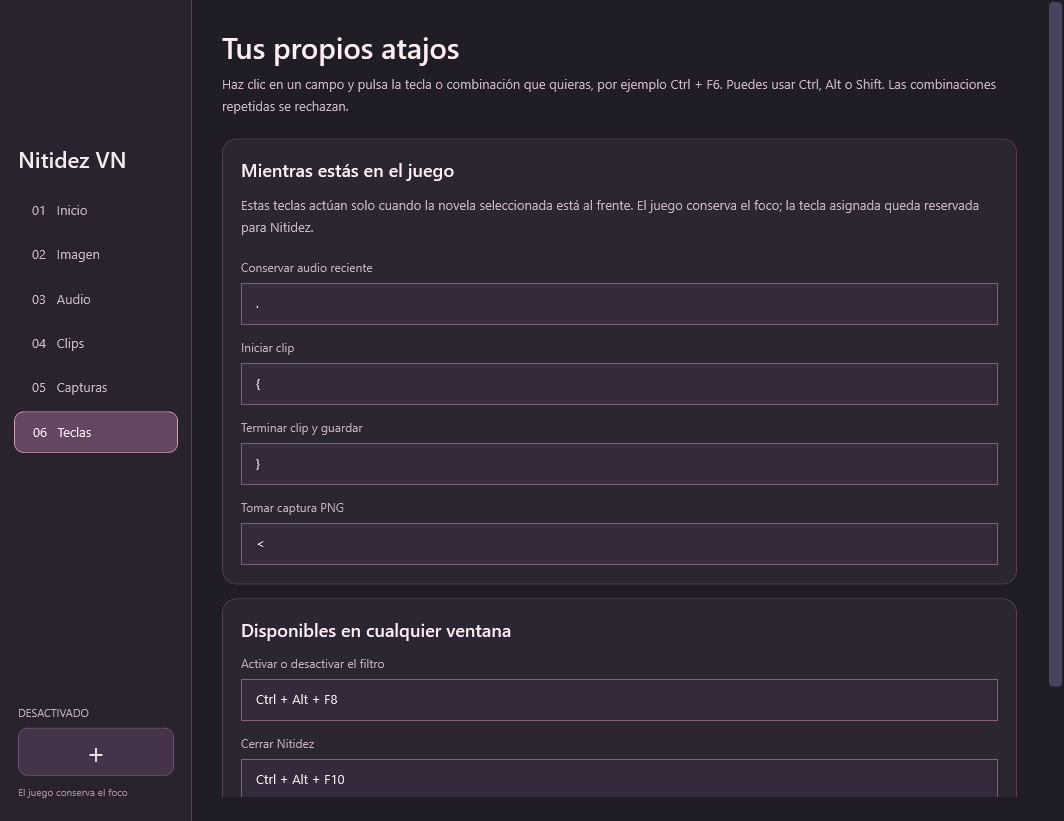
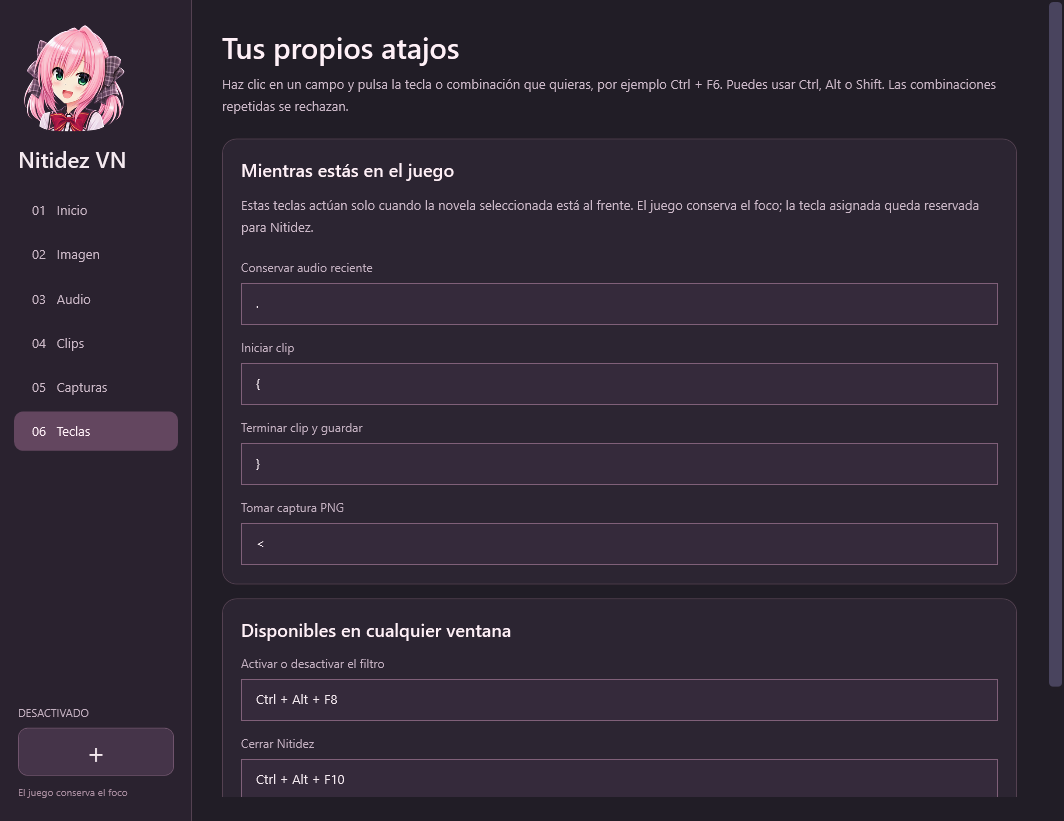
fix(recording): preserve native game dimensions in automatic mode
Make the current client-area size the default recording resolution, including odd dimensions, and scale the bitrate for larger frames. Reject stale textures after resizing and finalize the current clip if the source dimensions change. Verify exact encoded dimensions and filtering across four window sizes.

Changed region(s): [[0.0, 0.0305, 0.1241, 0.1827], [0.031, 0.5177, 0.093, 0.5481]]

diff --git a/Interfaz.xaml b/Interfaz.xaml
@@ -70,9 +70,9 @@
   </StackPanel></TabItem>
   <TabItem Header="04   Clips"><StackPanel>
    <TextBlock Text="Escenas para volver a ver" Style="{StaticResource Title}"/><TextBlock Text="Graba la novela con su audio y con el filtro que tengas al iniciar. Otras ventanas y la caja de Luna no se incluyen." Style="{StaticResource Help}"/>
-   <Border Style="{StaticResource Card}"><StackPanel><TextBlock Text="Antes de grabar" Style="{StaticResource Subhead}"/><TextBlock Text="Espera a Captura lista después de conectar el juego. Inicia con tu tecla de clip y termina con la tecla de detener. También puedes usar el botón de abajo." Style="{StaticResource Help}"/><Grid><Grid.ColumnDefinitions><ColumnDefinition Width="*"/><ColumnDefinition Width="14"/><ColumnDefinition Width="*"/></Grid.ColumnDefinitions><StackPanel><TextBlock Text="Resolución máxima" Style="{StaticResource Label}"/><ComboBox x:Name="SceneResolution" AutomationProperties.Name="Resolución máxima del clip"/></StackPanel><StackPanel Grid.Column="2"><TextBlock Text="Fotogramas por segundo" Style="{StaticResource Label}"/><ComboBox x:Name="SceneFps" AutomationProperties.Name="Fotogramas por segundo del MP4"/></StackPanel></Grid><Button x:Name="SceneRecord" Content="Grabar MP4 con filtro" HorizontalAlignment="Left" Margin="0,20,0,0"/><TextBlock x:Name="SceneKeys" TextWrapping="Wrap" Foreground="#E1BED4" Margin="0,16,0,0"/><TextBlock x:Name="SceneStatus" TextWrapping="Wrap" Margin="0,12,0,0" Foreground="#D8C1D2"/></StackPanel></Border>
+   <Border Style="{StaticResource Card}"><StackPanel><TextBlock Text="Antes de grabar" Style="{StaticResource Subhead}"/><TextBlock Text="Espera a Captura lista después de conectar el juego. Inicia con tu tecla de clip y termina con la tecla de detener. También puedes usar el botón de abajo." Style="{StaticResource Help}"/><Grid><Grid.ColumnDefinitions><ColumnDefinition Width="*"/><ColumnDefinition Width="14"/><ColumnDefinition Width="*"/></Grid.ColumnDefinitions><StackPanel><TextBlock Text="Tamaño del clip" Style="{StaticResource Label}"/><ComboBox x:Name="SceneResolution" AutomationProperties.Name="Resolución de grabación"/></StackPanel><StackPanel Grid.Column="2"><TextBlock Text="Fotogramas por segundo" Style="{StaticResource Label}"/><ComboBox x:Name="SceneFps" AutomationProperties.Name="Fotogramas por segundo del MP4"/></StackPanel></Grid><Button x:Name="SceneRecord" Content="Grabar MP4 con filtro" HorizontalAlignment="Left" Margin="0,20,0,0"/><TextBlock x:Name="SceneKeys" TextWrapping="Wrap" Foreground="#E1BED4" Margin="0,16,0,0"/><TextBlock x:Name="SceneStatus" TextWrapping="Wrap" Margin="0,12,0,0" Foreground="#D8C1D2"/></StackPanel></Border>
    <Border Style="{StaticResource Card}"><StackPanel><TextBlock Text="Revisa y recorta" Style="{StaticResource Subhead}"/><TextBlock Text="Abre un MP4, busca el momento, marca inicio y final, escribe el nombre, revisa con ▶ y guarda el recorte. El original se conserva. Si no te gusta un clip, puedes enviarlo a la Papelera desde el editor." Style="{StaticResource Help}"/><WrapPanel><Button x:Name="SceneEdit" Content="Abrir editor de clip…" Margin="0,0,10,10"/><Button x:Name="VideoFolder" Content="Abrir carpeta" Margin="0,0,10,10"/><Button x:Name="SceneRename" Content="Renombrar MP4…" Margin="0,0,0,10"/></WrapPanel></StackPanel></Border>
-   <TextBlock Text="Se guarda un MP4 compatible, con el filtro aplicado y sin límite de peso. La captura empieza al pulsar; el archivo se prepara en segundo plano. Usa 60 FPS para escenas con movimiento. Los MP4 se organizan en Archivos VN All in One / Videos / Nombre del juego. Usa Renombrar MP4 para cambiar un nombre guardado." Style="{StaticResource Help}"/>
+   <TextBlock Text="Se guarda un MP4 compatible, con el filtro aplicado y sin límite de peso. La captura empieza al pulsar; el archivo se prepara en segundo plano. Del juego conserva el tamaño actual de la novela, con el filtro. Usa 60 FPS para escenas con movimiento. Los MP4 se organizan en Archivos VN All in One / Videos / Nombre del juego. Usa Renombrar MP4 para cambiar un nombre guardado." Style="{StaticResource Help}"/>
   </StackPanel></TabItem>
   <TabItem Header="05   Capturas"><StackPanel><TextBlock Text="Guarda el instante" Style="{StaticResource Title}"/><TextBlock Text="Toma una imagen PNG de la novela con tu nitidez y color actuales. La captura mantiene la proporción del juego y no incluye los controles de Nitidez." Style="{StaticResource Help}"/><Border Style="{StaticResource Card}"><StackPanel><TextBlock Text="Una tecla, una imagen" Style="{StaticResource Subhead}"/><TextBlock Text="Conecta el juego en Inicio y espera a Captura lista. Al jugar, pulsa la tecla de captura; el PNG se guarda después de tomar la imagen, sin interrumpir la partida. También puedes usar este botón." Style="{StaticResource Help}"/><WrapPanel><Button x:Name="SceneScreenshot" Content="Tomar captura PNG" Margin="0,0,10,10"/><Button x:Name="ScreenshotFolder" Content="Abrir carpeta" Margin="0,0,0,10"/></WrapPanel><TextBlock x:Name="ScreenshotKeys" TextWrapping="Wrap" Foreground="#E1BED4" Margin="0,16,0,0"/><TextBlock x:Name="ScreenshotStatus" TextWrapping="Wrap" Margin="0,12,0,0" Foreground="#D8C1D2"/></StackPanel></Border><TextBlock Text="Los PNG se organizan en Archivos VN All in One / Capturas / Nombre del juego, con nombres como Wagamama_01.png y Wagamama_02.png. Las imágenes conservan su resolución original. El cursor de Windows no se incluye; un cursor dibujado por el propio juego puede aparecer." Style="{StaticResource Help}"/></StackPanel></TabItem>
   <TabItem Header="06   Teclas"><StackPanel><TextBlock Text="Tus propios atajos" Style="{StaticResource Title}"/><TextBlock Text="Haz clic en un campo y pulsa la tecla o combinación que quieras, por ejemplo Ctrl + F6. Puedes usar Ctrl, Alt o Shift. Las combinaciones repetidas se rechazan." Style="{StaticResource Help}"/>

diff --git a/PreparedScene.cs b/PreparedScene.cs
@@ -44,9 +44,9 @@ sealed class PreparedScene : IDisposable {
             if(recording!=null)throw new IOException("Ya hay una grabación.");
             var area=BorderlessWindow.ClientBounds(target.H);
             if(area.Width<2||area.Height<2)throw new IOException("El área del juego está vacía.");
-            double scale=Math.Min(1,Math.Min(limit/(double)area.Height,limit*16.0/9/area.Width));
-            recording=new FastSceneRecording(audio,look,output,Math.Max(2,(int)(area.Width*scale)&~1),
-                Math.Max(2,(int)(area.Height*scale)&~1),fps,limit);
+            double scale=limit==0?1:Math.Min(1,Math.Min(limit/(double)area.Height,limit*16.0/9/area.Width));
+            recording=new FastSceneRecording(audio,look,output,limit==0?area.Width:Math.Max(2,(int)(area.Width*scale)&~1),
+                limit==0?area.Height:Math.Max(2,(int)(area.Height*scale)&~1),fps,limit,area.Width,area.Height);
             wake.Set();return recording;
         }
     }
@@ -65,9 +65,11 @@ sealed class PreparedScene : IDisposable {
             using(var capture=new WindowCapture(target.H)) {
                 var neutral=new SceneLook(0,0,1,1,0,1);
                 var startup=Stopwatch.StartNew();
+                int warmWidth=0,warmHeight=0;
                 while(!closing&&!Ready){
-                    var area=BorderlessWindow.ClientBounds(target.H);double scale=Math.Min(1,Math.Min(1080.0/area.Height,1920.0/area.Width));
-                    Ready=Frame(capture,neutral,Math.Max(2,(int)(area.Width*scale)&~1),Math.Max(2,(int)(area.Height*scale)&~1))!=null;
+                    var area=BorderlessWindow.ClientBounds(target.H);
+                    Ready=Frame(capture,neutral,area.Width,area.Height)!=null;
+                    if(Ready){warmWidth=area.Width;warmHeight=area.Height;}
                     if(!Ready&&startup.ElapsedMilliseconds>5000)throw new IOException("La ventana no entregó el primer fotograma.");
                     if(!Ready)wake.WaitOne(10);
                 }
@@ -89,11 +91,24 @@ sealed class PreparedScene : IDisposable {
                             active.Complete();
                             lock(gate)if(recording==active)recording=null;
                         } else if(active.FrameDue) {
-                            var frame=Frame(capture,active.Look,active.Width,active.Height,active.TakeBuffer());
-                            if(frame!=null)active.Add(frame.Pixels);
+                            var area=BorderlessWindow.ClientBounds(target.H);
+                            if(area.Width!=active.SourceWidth||area.Height!=active.SourceHeight){
+                                active.CompletionNotice="La ventana cambió de resolución. Se guardó este clip sin estirar la imagen; inicia otro para usar el nuevo tamaño.";
+                                active.Stop();
+                            }else{
+                                var frame=Frame(capture,active.Look,active.Width,active.Height,active.TakeBuffer());
+                                if(frame!=null)active.Add(frame.Pixels);
+                            }
                         }
                     }
-                    if(active==null)capture.Pump(BorderlessWindow.ClientBounds(target.H));
+                    if(active==null&&!Native.IsIconic(target.H)){
+                        var area=BorderlessWindow.ClientBounds(target.H);
+                        if(area.Width<2||area.Height<2)Ready=false;
+                        else if(!Ready||area.Width!=warmWidth||area.Height!=warmHeight){
+                            Ready=Frame(capture,neutral,area.Width,area.Height)!=null;
+                            if(Ready){warmWidth=area.Width;warmHeight=area.Height;}
+                        }else capture.Pump(area);
+                    }
                     wake.WaitOne(active==null&&pending==null?16:1);
                 }
             }
@@ -113,7 +128,8 @@ sealed class FastSceneRecording {
     readonly GameAudio audio;
     readonly string output;
     readonly int fps,bitrate;
-    readonly BlockingCollection<byte[]> frames=new BlockingCollection<byte[]>(48),samples=new BlockingCollection<byte[]>(256);
+    readonly BlockingCollection<byte[]> frames;
+    readonly BlockingCollection<byte[]> samples=new BlockingCollection<byte[]>(256);
     readonly ManualResetEventSlim firstFrame=new ManualResetEventSlim(false);
     readonly ConcurrentBag<byte[]> buffers=new ConcurrentBag<byte[]>();
     readonly object audioGate=new object();
@@ -126,6 +142,8 @@ sealed class FastSceneRecording {
     long firstFrameTicks;
     public double FirstFrameMilliseconds {get{return Interlocked.Read(ref firstFrameTicks)*1000.0/Stopwatch.Frequency;}}
     public readonly int Width,Height;
+    public readonly int SourceWidth,SourceHeight;
+    public string CompletionNotice;
     public readonly SceneLook Look;
     public readonly Task<string> Result;
     public bool Stopping { get { return stopping; } }
@@ -134,8 +152,12 @@ sealed class FastSceneRecording {
     public bool FrameDue { get {return clock.Elapsed.TotalSeconds*fps>=count;} }
     public byte[] TakeBuffer(){byte[] data;return buffers.TryTake(out data)?data:new byte[checked(Width*Height*4)];}
     public TimeSpan RecordedElapsed { get {return clock.Elapsed;} }
-    public FastSceneRecording(GameAudio audio,SceneLook look,string output,int width,int height,int fps,int limit=1080) {
-        this.audio=audio;Look=look;this.output=output;Width=width;Height=height;this.fps=fps;bitrate=fps==60?(limit==720?6:10):(limit==720?4:7);
+    public FastSceneRecording(GameAudio audio,SceneLook look,string output,int width,int height,int fps,int limit=1080,int sourceWidth=0,int sourceHeight=0) {
+        this.audio=audio;Look=look;this.output=output;Width=width;Height=height;this.fps=fps;
+        SourceWidth=sourceWidth==0?width:sourceWidth;SourceHeight=sourceHeight==0?height:sourceHeight;
+        int standard=fps==60?(limit==720?6:10):(limit==720?4:7);
+        bitrate=(int)Math.Ceiling(standard*Math.Max(1,width*(double)height/(1920*1080)));
+        frames=new BlockingCollection<byte[]>((int)Math.Max(8,Math.Min(48,384L*1024*1024/(width*(long)height*4))));
         receive=delegate(IntPtr input,int length) {
             lock(audioGate) {
                 if(completed)return;

diff --git a/pruebas/NativeResolutionProbe.cs b/pruebas/NativeResolutionProbe.cs
@@ -1,0 +1,59 @@
+using System;
+using System.IO;
+using System.Diagnostics;
+using System.Media;
+using System.Threading.Tasks;
+using System.Windows;
+using System.Windows.Controls;
+using System.Windows.Interop;
+using System.Windows.Media;
+
+static class NativeResolutionProbe {
+    static void Verify(string video,int width,int height,string folder){
+        string frame=SceneFiles.Output(folder,"Verificacion",".png");
+        SceneFiles.RunFile("-ss 0.3 -i "+SceneFiles.Quote(video)+" -frames:v 1 -an -c:v png -f image2 -update 1",frame,10000);
+        using(var bitmap=new System.Drawing.Bitmap(frame)){
+            if(bitmap.Width!=width||bitmap.Height!=height)throw new Exception("El clip cambió la resolución: "+bitmap.Width+"x"+bitmap.Height+", se esperaba "+width+"x"+height);
+            var pixel=bitmap.GetPixel(width/2,height/2);
+            if(pixel.R<110||pixel.R>135||Math.Abs(pixel.R-pixel.B)>4||Math.Abs(pixel.R-pixel.G)>4)throw new Exception("No se conservó el filtro.");
+        }
+        Console.WriteLine("PASS: "+width+" × "+height+" exactos, filtro aplicado.");
+    }
+    [STAThread] static int Main(string[] args){
+        Native.SetProcessDpiAwarenessContext(new IntPtr(-4));
+        var app=new Application();
+        var scene=new Window{Title="Prueba de resolución automática",WindowStyle=WindowStyle.None,ResizeMode=ResizeMode.NoResize,Width=640,Height=360,MaxWidth=6000,MaxHeight=4000,Left=20,Top=20,ShowActivated=false,ShowInTaskbar=false,Background=new SolidColorBrush(Color.FromRgb(64,80,128))};
+        scene.Content=new TextBlock{Text="Resolución nativa — detalle del juego",Foreground=Brushes.White,FontSize=19,Margin=new Thickness(20)};
+        int result=1;
+        scene.Loaded+=async delegate{
+            try{
+                string folder=Path.GetFullPath(args[0]);Directory.CreateDirectory(folder);
+                var hwnd=new WindowInteropHelper(scene).Handle;var look=new SceneLook(.7,.17,1,0,0,1);
+                var pcm=new byte[AudioRing.BytesPerSecond];for(int i=0;i<AudioRing.Rate;i++){short value=(short)(400*Math.Sin(i*2*Math.PI*440/AudioRing.Rate));pcm[i*4]=pcm[i*4+2]=(byte)value;pcm[i*4+1]=pcm[i*4+3]=(byte)(value>>8);}
+                using(var stream=AudioFiles.Preview(new AudioClip(pcm,"Prueba"),0,AudioRing.Rate))
+                using(var sound=new SoundPlayer(stream))
+                using(var audio=new GameAudio((uint)Process.GetCurrentProcess().Id,0))
+                using(var prepared=new PreparedScene(new Choice{H=hwnd,Pid=(uint)Process.GetCurrentProcess().Id,Title=scene.Title})){
+                    sound.Load();sound.PlayLooping();
+                    foreach(var size in new[]{new[]{640,360},new[]{641,361},new[]{1940,801},new[]{1600,1100}}){
+                        scene.Width=size[0];scene.Height=size[1];scene.UpdateLayout();await Task.Delay(300);
+                        Native.SetWindowPos(hwnd,IntPtr.Zero,20,20,size[0],size[1],0x14);await Task.Delay(150);
+                        var area=BorderlessWindow.ClientBounds(hwnd);if(area.Width!=size[0]||area.Height!=size[1])throw new Exception("La ventana de prueba no aceptó la geometría: "+area.Width+" × "+area.Height);
+                        var warm=Stopwatch.StartNew();while(!prepared.Ready&&warm.ElapsedMilliseconds<5000)await Task.Delay(10);if(!prepared.Ready)throw new Exception(prepared.Error??"No se preparó la captura.");
+                        string path=SceneFiles.Output(folder,"Nativo-"+area.Width+"x"+area.Height,".mp4");
+                        var recording=prepared.Start(audio,look,path,0,60);await Task.Delay(1400);recording.Stop();
+                        Console.WriteLine("Resolución "+area.Width+"x"+area.Height+", primer fotograma: "+recording.FirstFrameMilliseconds.ToString("F1")+" ms.");string file=await recording.Result;
+                        Verify(file,area.Width,area.Height,folder);await Task.Delay(200);
+                    }
+                    var last=BorderlessWindow.ClientBounds(hwnd);string resizeFile=SceneFiles.Output(folder,"Cambio-resolucion",".mp4");
+                    var resizing=prepared.Start(audio,look,resizeFile,0,60);await Task.Delay(600);scene.Width=900;scene.Height=500;
+                    var completed=await Task.WhenAny(resizing.Result,Task.Delay(5000));if(completed!=resizing.Result)throw new Exception("No finalizó el clip al cambiar de resolución.");
+                    Verify(await resizing.Result,last.Width,last.Height,folder);if(String.IsNullOrEmpty(resizing.CompletionNotice))throw new Exception("Falta aviso de cambio de tamaño.");
+                    Console.WriteLine("PASS: cambio de resolución finaliza el clip sin estirarlo.");sound.Stop();result=0;
+                }
+            }catch(Exception ex){Console.Error.WriteLine(ex);}
+            finally{scene.Close();}
+        };
+        app.Run(scene);return result;
+    }
+}

diff --git a/SceneControls.cs b/SceneControls.cs
@@ -18,6 +18,7 @@ sealed class SceneControls : IDisposable {
     readonly AudioClips audioClips;
     readonly TextBlock status, keys;
     readonly ComboBox resolution, videoFps;
+    readonly ComboBoxItem automaticResolution=new ComboBoxItem{Content="Del juego · automática"};
     readonly Button record, screenshot, edit;
     readonly DispatcherTimer timer;
     readonly string[] keyLabels = { "{", "}", "<" };
@@ -36,7 +37,7 @@ sealed class SceneControls : IDisposable {
         this.audioClips = audioClips;
         status = (TextBlock)ui.FindName("SceneStatus"); keys = (TextBlock)ui.FindName("SceneKeys");
         resolution = (ComboBox)ui.FindName("SceneResolution");
-        resolution.Items.Add("1080p"); resolution.Items.Add("720p"); resolution.SelectedIndex = 0;
+        resolution.Items.Add(automaticResolution);resolution.Items.Add("1080p"); resolution.Items.Add("720p"); resolution.SelectedIndex = 0;
         videoFps = (ComboBox)ui.FindName("SceneFps");
         videoFps.Items.Add("60 FPS"); videoFps.Items.Add("30 FPS"); videoFps.SelectedIndex = 0;
         record = (Button)ui.FindName("SceneRecord"); screenshot = (Button)ui.FindName("SceneScreenshot"); edit = (Button)ui.FindName("SceneEdit");
@@ -67,12 +68,13 @@ sealed class SceneControls : IDisposable {
     public void Load(System.Xml.XmlElement node) {
         for(int i=0;i<3;i++)shortcuts[i].Load(node,"atajoEscena"+i);
         UpdateKeyLabels();
-        resolution.SelectedIndex=node.GetAttribute("clipsResolucion")=="720p"?1:0;
+        string selected=node.GetAttribute("clipsResolucion45");
+        resolution.SelectedIndex=selected=="720p"?2:selected=="1080p"?1:0;
         videoFps.SelectedIndex = node.GetAttribute("clipsFps") == "30" ? 1 : 0;
     }
     public void Save(System.Xml.XmlWriter writer) {
         for(int i=0;i<3;i++)shortcuts[i].Save(writer,"atajoEscena"+i);
-        writer.WriteAttributeString("clipsResolucion", resolution.SelectedItem.ToString());
+        writer.WriteAttributeString("clipsResolucion45",resolution.SelectedIndex==0?"automatica":resolution.SelectedIndex==1?"1080p":"720p");
         writer.WriteAttributeString("clipsFps", videoFps.SelectedIndex == 1 ? "30" : "60");
     }
 
@@ -94,6 +96,7 @@ sealed class SceneControls : IDisposable {
 
     void Refresh() {
         bool valid = Valid();
+        if(valid){try{var bounds=BorderlessWindow.ClientBounds(target.H);valid=bounds.Width>1&&bounds.Height>1;string label="Del juego · "+bounds.Width+" × "+bounds.Height;if(!Equals(automaticResolution.Content,label))automaticResolution.Content=label;}catch(InvalidOperationException){valid=false;}}
         if (!valid && recording != null) Stop();
         if (valid && Native.GetForegroundWindow() == target.H && hwnd != IntPtr.Zero) {
             uint pid;
@@ -113,7 +116,7 @@ sealed class SceneControls : IDisposable {
             System.Media.SystemSounds.Asterisk.Play();
         }
         string state = recording == null ? "" : recording.Stopping ? "Finalizando MP4… " :
-            "● Grabando · " + recording.RecordedElapsed.ToString(@"mm\:ss") + "  ";
+            "● Grabando · " + recording.Width+" × "+recording.Height+" · "+recording.RecordedElapsed.ToString(@"mm\:ss") + "  ";
         if (capturing) state += "Capturando PNG… ";
         string message = state + (notice ?? (valid ? prepared!=null&&prepared.Error!=null?prepared.Error:
             prepared!=null&&prepared.Ready?"Captura lista · Se prioriza calidad, sin límite de peso.":"Preparando captura…" : "Selecciona la ventana del juego."));
@@ -154,7 +157,7 @@ sealed class SceneControls : IDisposable {
     async void Start() {
         if (recording != null || !Valid()||prepared==null||!prepared.Ready) return;
         try {
-            int limit = resolution.SelectedIndex==1?720:1080;
+            int limit = resolution.SelectedIndex==0?0:resolution.SelectedIndex==2?720:1080;
             int fps = videoFps.SelectedIndex == 1 ? 30 : 60;
             string game=CaptureFiles.Game(target);
             string path = SceneFiles.Output(CaptureFiles.Folder("Videos",game), game, ".mp4");
@@ -165,6 +168,7 @@ sealed class SceneControls : IDisposable {
             Refresh();
             lastVideo = await recording.Result;
             notice = "Clip con filtro guardado en " + lastVideo;
+            if(recording.CompletionNotice!=null)notice=recording.CompletionNotice+"\n"+notice;
         } catch (Exception ex) { notice = "No se pudo grabar: " + ex.GetBaseException().Message; }
         finally { audioClips.ReleaseVideoAudio(); recording = null; Refresh(); }
     }

diff --git a/NitidezVN.cs b/NitidezVN.cs
@@ -14,9 +14,9 @@ using System.Windows.Threading;
 using SD = System.Drawing;
 using WF = System.Windows.Forms;
 
-[assembly: System.Reflection.AssemblyTitle("Nitidez VN 4.4")]
-[assembly: System.Reflection.AssemblyVersion("4.4.0.0")]
-[assembly: System.Reflection.AssemblyFileVersion("4.4.0.0")]
+[assembly: System.Reflection.AssemblyTitle("Nitidez VN 4.5")]
+[assembly: System.Reflection.AssemblyVersion("4.5.0.0")]
+[assembly: System.Reflection.AssemblyFileVersion("4.5.0.0")]
 
 static class Native {
     [StructLayout(LayoutKind.Sequential)] public struct RECT { public int L,T,R,B; }
@@ -204,7 +204,7 @@ class ControlWindow : Window {
     SD.Rectangle displayBounds;
     string logPath=Path.Combine(AppDomain.CurrentDomain.BaseDirectory,"sesion.log");
     public ControlWindow() {
-        Title="Nitidez VN 4.4 — controles"; Width=Math.Min(1080,SystemParameters.WorkArea.Width-35); Height=Math.Min(860,SystemParameters.WorkArea.Height-35);MinWidth=880;MinHeight=620;Background=new SolidColorBrush(Color.FromRgb(33,29,38));Foreground=Brushes.White;FontFamily=new FontFamily("Segoe UI");FontSize=13;WindowStartupLocation=WindowStartupLocation.CenterScreen;
+        Title="Nitidez VN 4.5 — controles"; Width=Math.Min(1080,SystemParameters.WorkArea.Width-35); Height=Math.Min(860,SystemParameters.WorkArea.Height-35);MinWidth=880;MinHeight=620;Background=new SolidColorBrush(Color.FromRgb(33,29,38));Foreground=Brushes.White;FontFamily=new FontFamily("Segoe UI");FontSize=13;WindowStartupLocation=WindowStartupLocation.CenterScreen;
         using(var x=System.Reflection.Assembly.GetExecutingAssembly().GetManifestResourceStream("Interfaz.xaml"))ui=(FrameworkElement)System.Windows.Markup.XamlReader.Load(x);Content=ui;
         var sections=(TabControl)ui.FindName("Sections");
         sections.SelectionChanged+=delegate(object sender,SelectionChangedEventArgs e){if(e.OriginalSource==sections)Dispatcher.BeginInvoke(new Action(delegate{var scroll=sections.Template.FindName("PanelScroller",sections) as ScrollViewer;if(scroll!=null)scroll.ScrollToTop();}),DispatcherPriority.Loaded);};
@@ -257,7 +257,7 @@ class ControlWindow : Window {
         Loaded+=delegate {
             try{CaptureFiles.Initialize();}catch(Exception ex){Log("Carpetas de archivos: "+ex.Message);}
             RefreshWindows();
-            Log("Inicio v4.4 (captura preparada y clips compatibles). Windows="+Environment.OSVersion+" GPU WPF tier="+(RenderCapability.Tier>>16));
+            Log("Inicio v4.5 (captura preparada y clips compatibles). Windows="+Environment.OSVersion+" GPU WPF tier="+(RenderCapability.Tier>>16));
             if(rememberedExe.Length!=0){restoreTargetTimer.Start();RestoreTarget();}
             Dispatcher.BeginInvoke(new Action(SaveUiPreview),DispatcherPriority.ApplicationIdle);
         };

diff --git a/WindowCapture.cpp b/WindowCapture.cpp
@@ -300,7 +300,7 @@ float4 color(Vertex v) : SV_Target {
 
     bool Snapshot(RECT area, BYTE* pixels, UINT width, UINT height, FilterSettings settings) {
         CaptureFrame(area);
-        if(!cachedFrame)return false;
+        if(!cachedFrame||inWidth!=UINT(area.right-area.left)||inHeight!=UINT(area.bottom-area.top))return false;
         SetupShaders();
         if(!photo || photoWidth!=width || photoHeight!=height){
             photoTarget=nullptr;photo=nullptr;photoRead=nullptr;
